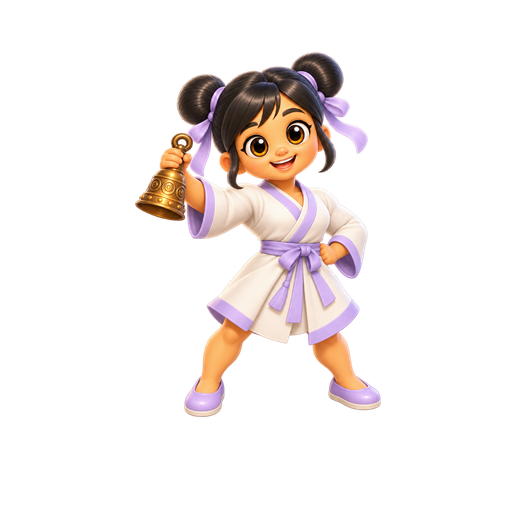
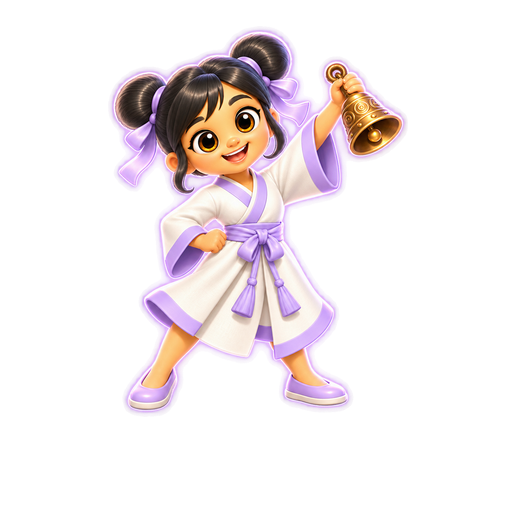
A stronger Thriving for the five freed people (brief 28)

Changed region(s): [[0.2188, 0.0312, 0.8125, 0.8125]]

diff --git a/level1/index.html b/level1/index.html
@@ -12023,7 +12023,7 @@ function renderBook() {
     SFX.select(); const d = $('#bkDetail'); let h;
     if (x.dataset.k) h = beastHTML(x.dataset.k, true) + `<p class="bk-count">Freed ${b[x.dataset.k]} ${b[x.dataset.k] === 1 ? 'time' : 'times'}</p>`;
     else { const el = x.dataset.p, cid = Object.keys(CALL).find(id => CALL[id].from === el), C = cid && CALL[cid];
-      const st = healStage(el), hv = heals()[el] || 0, nx = HEAL_AT[st], lo = st ? HEAL_AT[st - 1] : 0, pic = HEAL_ART.includes(el + st) ? `b-heal-${el}-${st}.png?v=1` : `people/face-${el}.png?v=9`;
+      const st = healStage(el), hv = heals()[el] || 0, nx = HEAL_AT[st], lo = st ? HEAL_AT[st - 1] : 0, pic = HEAL_ART.includes(el + st) ? `b-heal-${el}-${st}.png?v=${st === 3 ? 2 : 1}` : `people/face-${el}.png?v=9`;
       h = `<div class="beast big" style="--c:${EL[el]}"><span class="pic"><img src="art4/${pic}" alt=""></span><div><b>${PEOPLE[el]}</b><p>"${FREED[el].q}"</p><span class="chips">Freed from ${BOSSES[el].name.replace(/^The /, 'the ')}</span>`
         + `<span class="bk-heal"><b>${HEAL_NAME[st]}</b>${nx ? `<i style="--p:${((hv - lo) / (nx - lo)).toFixed(3)}"></i><small>Free ${ELNAME[el].toLowerCase()} creatures to help them heal</small>` : '<small>Strong again, thanks to you</small>'}</span>`
         + `${C ? `<span class="bk-gift"><img src="art4/calls/${C.img}.png?v=9" alt="">${C.gift}: ${C.n}</span>` : ''}</div></div>`;
